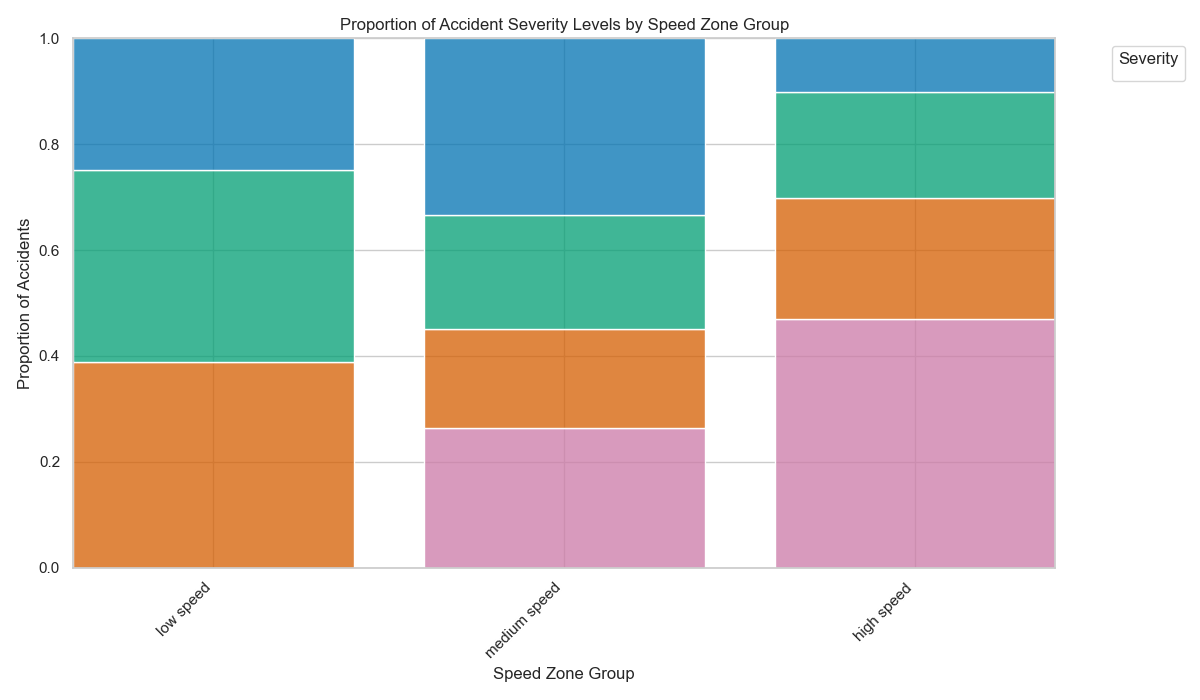
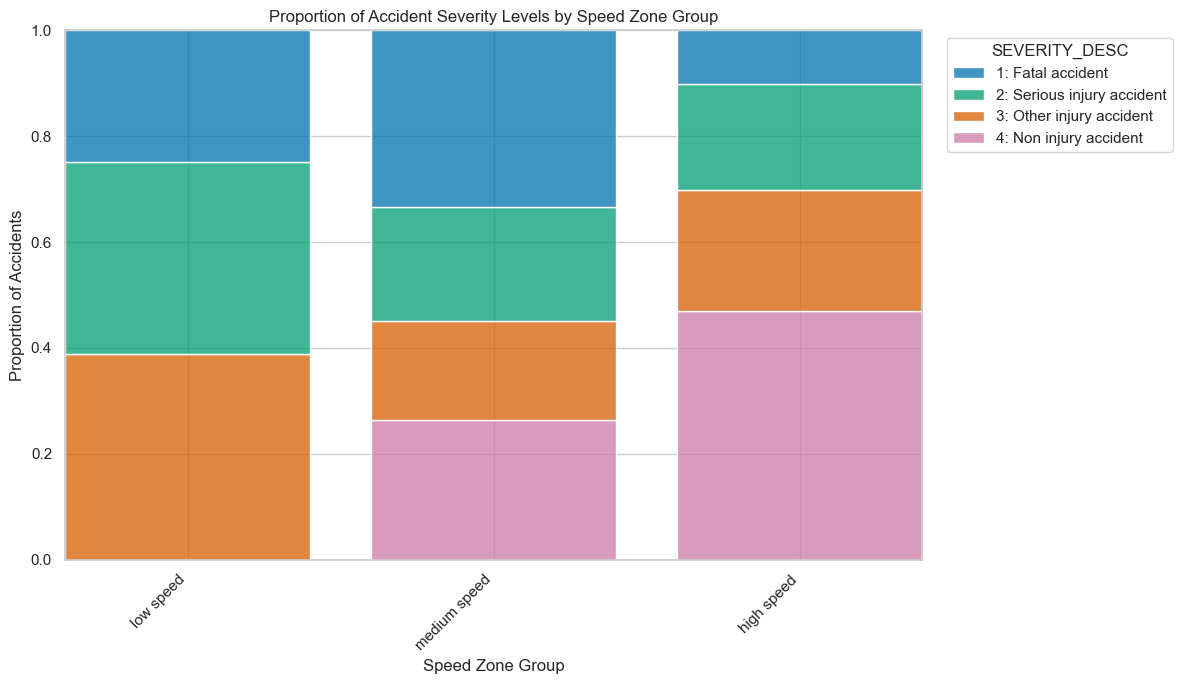
Minor changes

diff --git a/sandiv_visualize.py b/sandiv_visualize.py
@@ -36,29 +36,31 @@ plt.figure(figsize=(12, 7))
 accident_level_df_vis2 = merged_df.drop_duplicates(subset=['ACCIDENT_NO'])
 speed_zone_order = sorted(accident_level_df_vis2['SPEED_ZONE_GROUP'].dropna().unique(), key=lambda x: (x != 'low speed', x != 'medium speed', x != 'high speed', x))
 
-sns.histplot(data=accident_level_df_vis2.dropna(subset=['SPEED_ZONE_GROUP', 'SEVERITY_DESC']),
+ax = sns.histplot(data=accident_level_df_vis2.dropna(subset=['SPEED_ZONE_GROUP', 'SEVERITY_DESC']),
              x='SPEED_ZONE_GROUP', hue='SEVERITY_DESC',
              multiple='fill', stat='proportion', shrink=0.8, common_norm=False,
-             hue_order=existing_severities, discrete=True) # Help from Gemini 2.5 Pro obtained for the parameters
+             hue_order=existing_severities, discrete=True, ) # Help from Gemini 2.5 Pro obtained for the parameters
 plt.gca().set_xticklabels(speed_zone_order) # Help from Claude 3.7 obtained for this line
 plt.title('Proportion of Accident Severity Levels by Speed Zone Group')
 plt.xlabel('Speed Zone Group')
 plt.ylabel('Proportion of Accidents')
 plt.xticks(rotation=45, ha='right')
-plt.legend(title='Severity', bbox_to_anchor=(1.05, 1), loc='upper left') # Help from Gemini 2.5 Pro obtained for this line
+legend = ax.get_legend() # Get the legend object created by seaborn
+if legend: # Check if a legend exists
+    legend.set_bbox_to_anchor((1.02, 1)) # Adjust the legend position
 plt.tight_layout()
-plt.savefig('vis2_severity_vs_speedzone.png')
+plt.savefig('vis2_severity_vs_speedzone.png', bbox_inches='tight')
 plt.close()
 
 # Visualization 3: Severity vs. Vehicle Age Group
-plt.figure(figsize=(10, 6))
+plt.figure(figsize=(12, 7))
 vehicle_id_col_name = 'VEHICLE_ID_x'
 
 vehicle_level_df_vis3 = merged_df.drop_duplicates(subset=['ACCIDENT_NO', vehicle_id_col_name])
 vehicle_age_order = ['0-4 years', '5-9 years', '10-14 years', '15+ years', 'Unknown']
 vehicle_age_order_present = [v for v in vehicle_age_order if v in vehicle_level_df_vis3['VEHICLE_AGE_GROUP'].unique()]
 
-sns.histplot(data=vehicle_level_df_vis3.dropna(subset=['VEHICLE_AGE_GROUP', 'SEVERITY_DESC']),
+ax = sns.histplot(data=vehicle_level_df_vis3.dropna(subset=['VEHICLE_AGE_GROUP', 'SEVERITY_DESC']),
              x='VEHICLE_AGE_GROUP', hue='SEVERITY_DESC',
              multiple='fill', stat='proportion', shrink=0.8, common_norm=False,
              hue_order=existing_severities, discrete=True) # Help from Gemini 2.5 Pro obtained for the parameters
@@ -66,17 +68,18 @@ plt.gca().set_xticklabels(vehicle_age_order_present) # Help from Claude 3.7 obta
 plt.title('Proportion of Accident Severity by Vehicle Age Group (Unique Vehicles)')
 plt.xlabel('Vehicle Age Group')
 plt.ylabel('Proportion of Vehicles Involved')
-plt.legend(title='Severity', bbox_to_anchor=(1.05, 1), loc='upper left') # Help from Gemini 2.5 Pro obtained for this line
+legend = ax.get_legend() # Get the legend object created by seaborn
+if legend: # Check if a legend exists
+    legend.set_bbox_to_anchor((1.02, 1)) # Adjust the legend position
 plt.tight_layout()
-plt.savefig('vis3_severity_vs_vehicle_age.png')
+plt.savefig('vis3_severity_vs_speedzone.png', bbox_inches='tight')
 plt.close()
 
 # Visualization 4: Severity vs. Road User Type
 plt.figure(figsize=(12, 7))
 road_user_order = ['Driver', 'Passenger', 'Pedestrian', 'Cyclist', 'Unknown']
 road_user_order_present = [r for r in road_user_order if r in merged_df['ROAD_USER_TYPE_DESC'].unique()]
-
-sns.histplot(data=merged_df.dropna(subset=['ROAD_USER_TYPE_DESC', 'SEVERITY_DESC']),
+ax = sns.histplot(data=merged_df.dropna(subset=['ROAD_USER_TYPE_DESC', 'SEVERITY_DESC']),
              x='ROAD_USER_TYPE_DESC', hue='SEVERITY_DESC',
              multiple='fill', stat='proportion', shrink=0.8, common_norm=False,
              hue_order=existing_severities, discrete=True) # Help from Gemini 2.5 Pro obtained for the parameters
@@ -85,9 +88,11 @@ plt.title('Proportion of Injury Severity by Road User Type')
 plt.xlabel('Road User Type')
 plt.ylabel('Proportion of Persons Involved')
 plt.xticks(rotation=45, ha='right')
-plt.legend(title='Severity', bbox_to_anchor=(1.05, 1), loc='upper left') # Help from Gemini 2.5 Pro obtained for this line
+legend = ax.get_legend() # Get the legend object created by seaborn
+if legend: # Check if a legend exists
+    legend.set_bbox_to_anchor((1.02, 1)) # Adjust the legend position
 plt.tight_layout()
-plt.savefig('vis4_severity_vs_roaduser.png')
+plt.savefig('vis4_severity_vs_speedzone.png', bbox_inches='tight')
 plt.close()
 
 # Visualization 5: Severity vs. Light Condition
@@ -96,7 +101,7 @@ accident_level_df_vis5 = merged_df.drop_duplicates(subset=['ACCIDENT_NO'])
 light_cond_order = ['daytime', 'dusk', 'nighttime（light on）', 'nighttime（no light）', 'unknown']
 light_cond_order_present = [l for l in light_cond_order if l in accident_level_df_vis5['LIGHT_CONDITION_DESC'].unique()]
 
-sns.histplot(data=accident_level_df_vis5.dropna(subset=['LIGHT_CONDITION_DESC', 'SEVERITY_DESC']),
+ax = sns.histplot(data=accident_level_df_vis5.dropna(subset=['LIGHT_CONDITION_DESC', 'SEVERITY_DESC']),
              x='LIGHT_CONDITION_DESC', hue='SEVERITY_DESC',
              multiple='fill', stat='proportion', shrink=0.8, common_norm=False,
              hue_order=existing_severities, discrete=True) # Help from Gemini 2.5 Pro obtained for the parameters
@@ -105,9 +110,11 @@ plt.title('Proportion of Accident Severity by Light Condition')
 plt.xlabel('Light Condition')
 plt.ylabel('Proportion of Accidents')
 plt.xticks(rotation=45, ha='right')
-plt.legend(title='Severity', bbox_to_anchor=(1.05, 1), loc='upper left') # Help from Gemini 2.5 Pro obtained for this line
+legend = ax.get_legend() # Get the legend object created by seaborn
+if legend: # Check if a legend exists
+    legend.set_bbox_to_anchor((1.02, 1)) # Adjust the legend position
 plt.tight_layout()
-plt.savefig('vis5_severity_vs_light.png')
+plt.savefig('vis5_severity_vs_speedzone.png', bbox_inches='tight')
 plt.close()
 
 print("\nAll planned visualizations generated and saved.")
